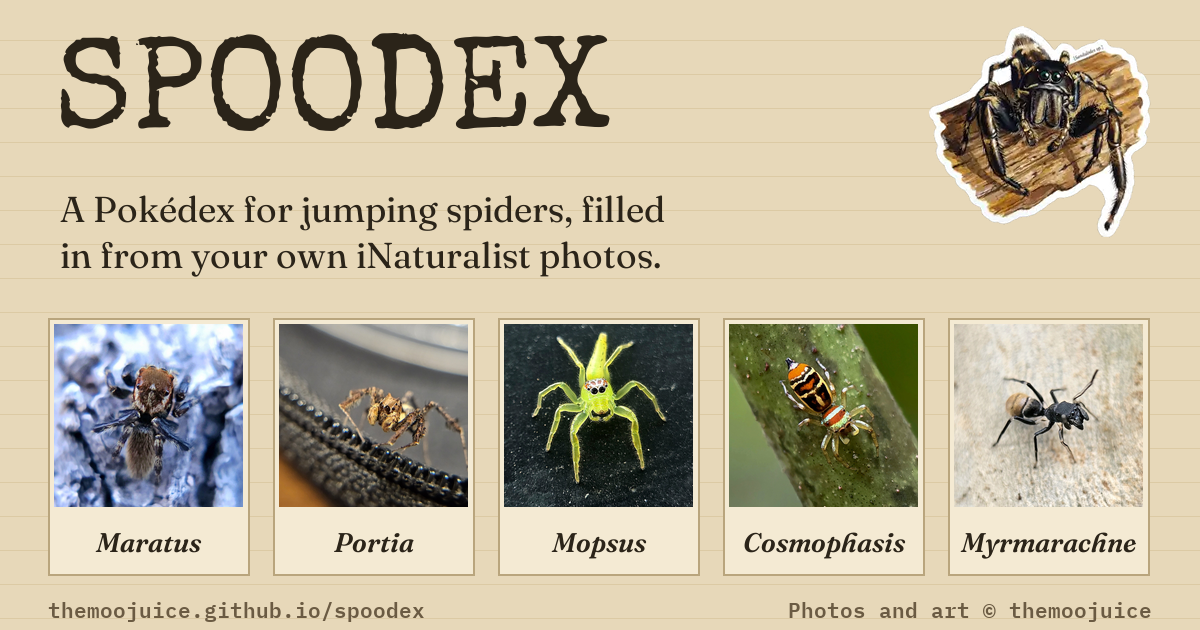
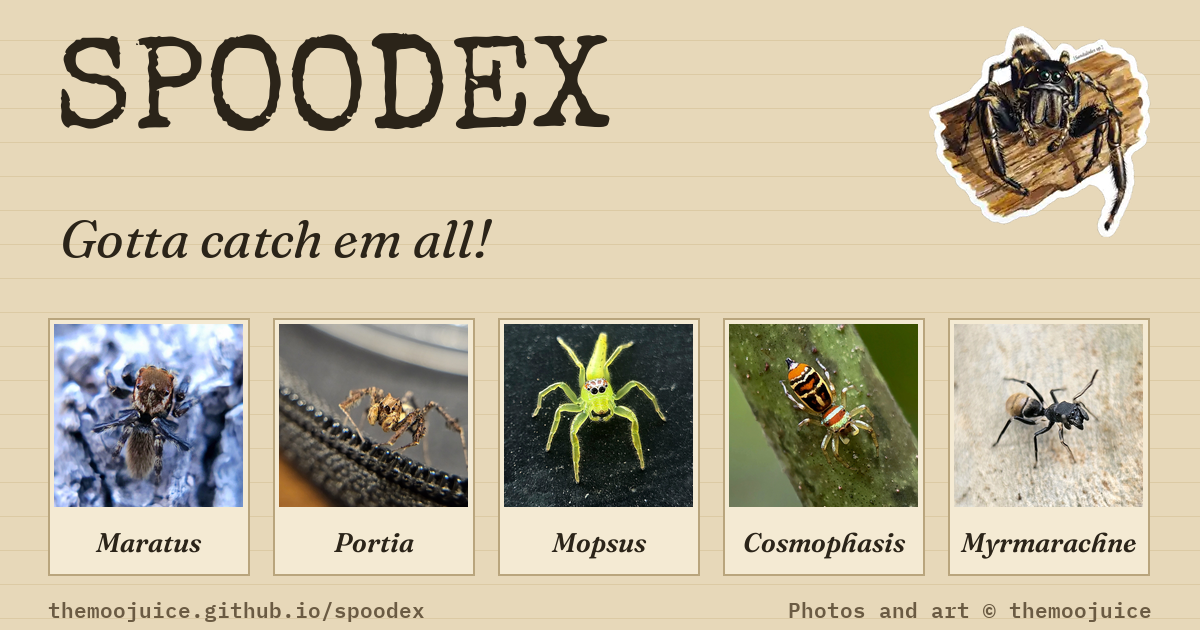
v2.12.1: 'Gotta catch em all!' everywhere the old tagline was
Meta/og descriptions, README, og.png share image and tools/og.py; sw.js VERSION bump; HANDOVER version row.

Claude-Session: https://claude.ai/code/session_011eL2HZwJGrW2FifTAVd8Bd

Changed region(s): [[0.0308, 0.3016, 0.555, 0.4524]]

diff --git a/spoodex.html b/spoodex.html
@@ -4,11 +4,11 @@
 <meta charset="utf-8">
 <meta name="viewport" content="width=device-width,initial-scale=1">
 <title>SPOODEX</title>
-<meta name="description" content="A Pokédex for jumping spiders, filled in from your own iNaturalist photos. Enter your iNat username, or see what lives near you without an account.">
+<meta name="description" content="Gotta catch em all! Enter your iNat username, or see what lives near you without an account.">
 <meta property="og:type" content="website">
 <meta property="og:site_name" content="SPOODEX">
 <meta property="og:title" content="SPOODEX: collect jumping spiders from your iNaturalist photos">
-<meta property="og:description" content="A Pokédex for jumping spiders, filled in from your own iNaturalist photos. Enter your iNat username, or see what lives near you without an account.">
+<meta property="og:description" content="Gotta catch em all! Enter your iNat username, or see what lives near you without an account.">
 <meta property="og:url" content="https://themoojuice.github.io/spoodex/">
 <meta property="og:image" content="https://themoojuice.github.io/spoodex/og.png">
 <meta property="og:image:width" content="1200">

diff --git a/index.html b/index.html
@@ -3,11 +3,11 @@
 <head>
 <meta charset="utf-8">
 <title>SPOODEX</title>
-<meta name="description" content="A Pokédex for jumping spiders, filled in from your own iNaturalist photos. Enter your iNat username, or see what lives near you without an account.">
+<meta name="description" content="Gotta catch em all! Enter your iNat username, or see what lives near you without an account.">
 <meta property="og:type" content="website">
 <meta property="og:site_name" content="SPOODEX">
 <meta property="og:title" content="SPOODEX: collect jumping spiders from your iNaturalist photos">
-<meta property="og:description" content="A Pokédex for jumping spiders, filled in from your own iNaturalist photos. Enter your iNat username, or see what lives near you without an account.">
+<meta property="og:description" content="Gotta catch em all! Enter your iNat username, or see what lives near you without an account.">
 <meta property="og:url" content="https://themoojuice.github.io/spoodex/">
 <meta property="og:image" content="https://themoojuice.github.io/spoodex/og.png">
 <meta property="og:image:width" content="1200">

diff --git a/sw.js b/sw.js
@@ -2,7 +2,7 @@
    Scope is this folder (/spoodex/ on Pages). The Identification aid on the same origin has its own worker (/Identification-aid/)
    and its own caches (salticidae-core:*); this one only ever touches caches named spoodex-*.
    iNat API responses are never cached here: the app keeps its data in IndexedDB. */
-const VERSION = '2.12.0';   // bump on every release (HANDOVER §10 "Ship")
+const VERSION = '2.12.1';   // bump on every release (HANDOVER §10 "Ship")
 const SHELL = `spoodex-shell-${VERSION}`, LIBS = `spoodex-libs-${VERSION}`;
 const TILES = 'spoodex-tiles', PHOTOS = 'spoodex-photos', ART = 'spoodex-art';   // content, not code: kept across releases, oldest out past the cap
 const CAP = { [TILES]:600, [PHOTOS]:400, [ART]:100 };   // art/<id>.webp: named by content, so a cached copy never goes stale

diff --git a/tools/og.py b/tools/og.py
@@ -48,9 +48,8 @@ def main():
 
     title = font(fonts, 'SpecialElite.ttf', 132)
     d.text((54, 34), 'SPOODEX', font=title, fill=INK)
-    pitch = font(fonts, 'Fraunces.ttf', 36, [36, 400, 0, 0])
-    for i, ln in enumerate(['A Pokédex for jumping spiders, filled', 'in from your own iNaturalist photos.']):
-        d.text((60, 186 + i * 46), ln, font=pitch, fill=INK)
+    pitch = font(fonts, 'FrauncesItalic.ttf', 52, [72, 400, 0, 0])
+    d.text((60, 206), 'Gotta catch em all!', font=pitch, fill=INK)
 
     st = sticker(html, 0)
     st.thumbnail((250, 250))

diff --git a/HANDOVER.md b/HANDOVER.md
@@ -918,6 +918,7 @@ cards progressively during a first import; generalising beyond jumping spiders (
 | v1.8 | Sets (themed + complete-the-lineage), Bounty board, "since your last visit" |
 | v1.9 | Most Wanted tab renamed Bounty board (bounties first), SPOODEX › Needs ID layer, fixed-height quest tiles |
 | v2.9.1 | The Spoodarium's intro line reworded for pets that are still alive (owner, 2026-10-17); LAUNCH.md's Spoodarium paragraph updated |
+| v2.12.1 | Tagline (owner, 2026-10-20/21): the landing pitch is now *Gotta catch em all!* in italics (`.landhead .pitch`, `<em>`); the same line opens the meta/og descriptions in `index.html` and `spoodex.html` and the README, and replaces the two-line pitch on `og.png` (Fraunces Italic 52 px; `tools/og.py` updated to match, the image itself patched in place). The old "A Pokédex for jumping spiders…" line is retired: don't bring it back |
 | v2.12 | Photos for inspiration (built 2026-10-20, owner's request): scan rows for new-to-you genera and species show their best licensed photos from the scanned area with Spood scores; the trip planner's record-square list shows photos of the wanted genera in each square; the fog of war removed (both maps, its switch, `paintMap3d`'s fade, `mixHex`) |
 | v2.11 | Spood score, part 2 (built 2026-10-20): weight presets (Balanced, Taxonomist, Photographer, Storyteller) and Mine from ⚖ Which is cooler? picks; Best finds in Compare (five each), Crew (three each, read on request) and Wrapped (the year's best find) |
 | v2.10 | Spood score (built 2026-10-20, **not shipped**; spec `SPEC-spood-score.md`, prototype `tools/spood_score.py`): every wild record scored out of 100 with its reasons; SPOODEX › 🏅 Best finds (all / secret spoods, highest or newest first), a breakdown sheet per record, Mystery spoods sorted by score, the genus page's three best finds, How it works › Spood score. Not yet: Compare/Crew/Wrapped, weight presets, the "which is cooler?" duels |

diff --git a/README.md b/README.md
@@ -1,6 +1,6 @@
 # SPOODEX
 
-A living Pokédex built from the jumping spiders (Salticidae) you have actually found.
+*Gotta catch em all!* A collection of the jumping spiders (Salticidae) you have actually found.
 Enter an iNaturalist username; SPOODEX reads the public records, collapses them to genus,
 and turns them into a collection, a lineage tree, a nearby-genus scanner and quests.
 
